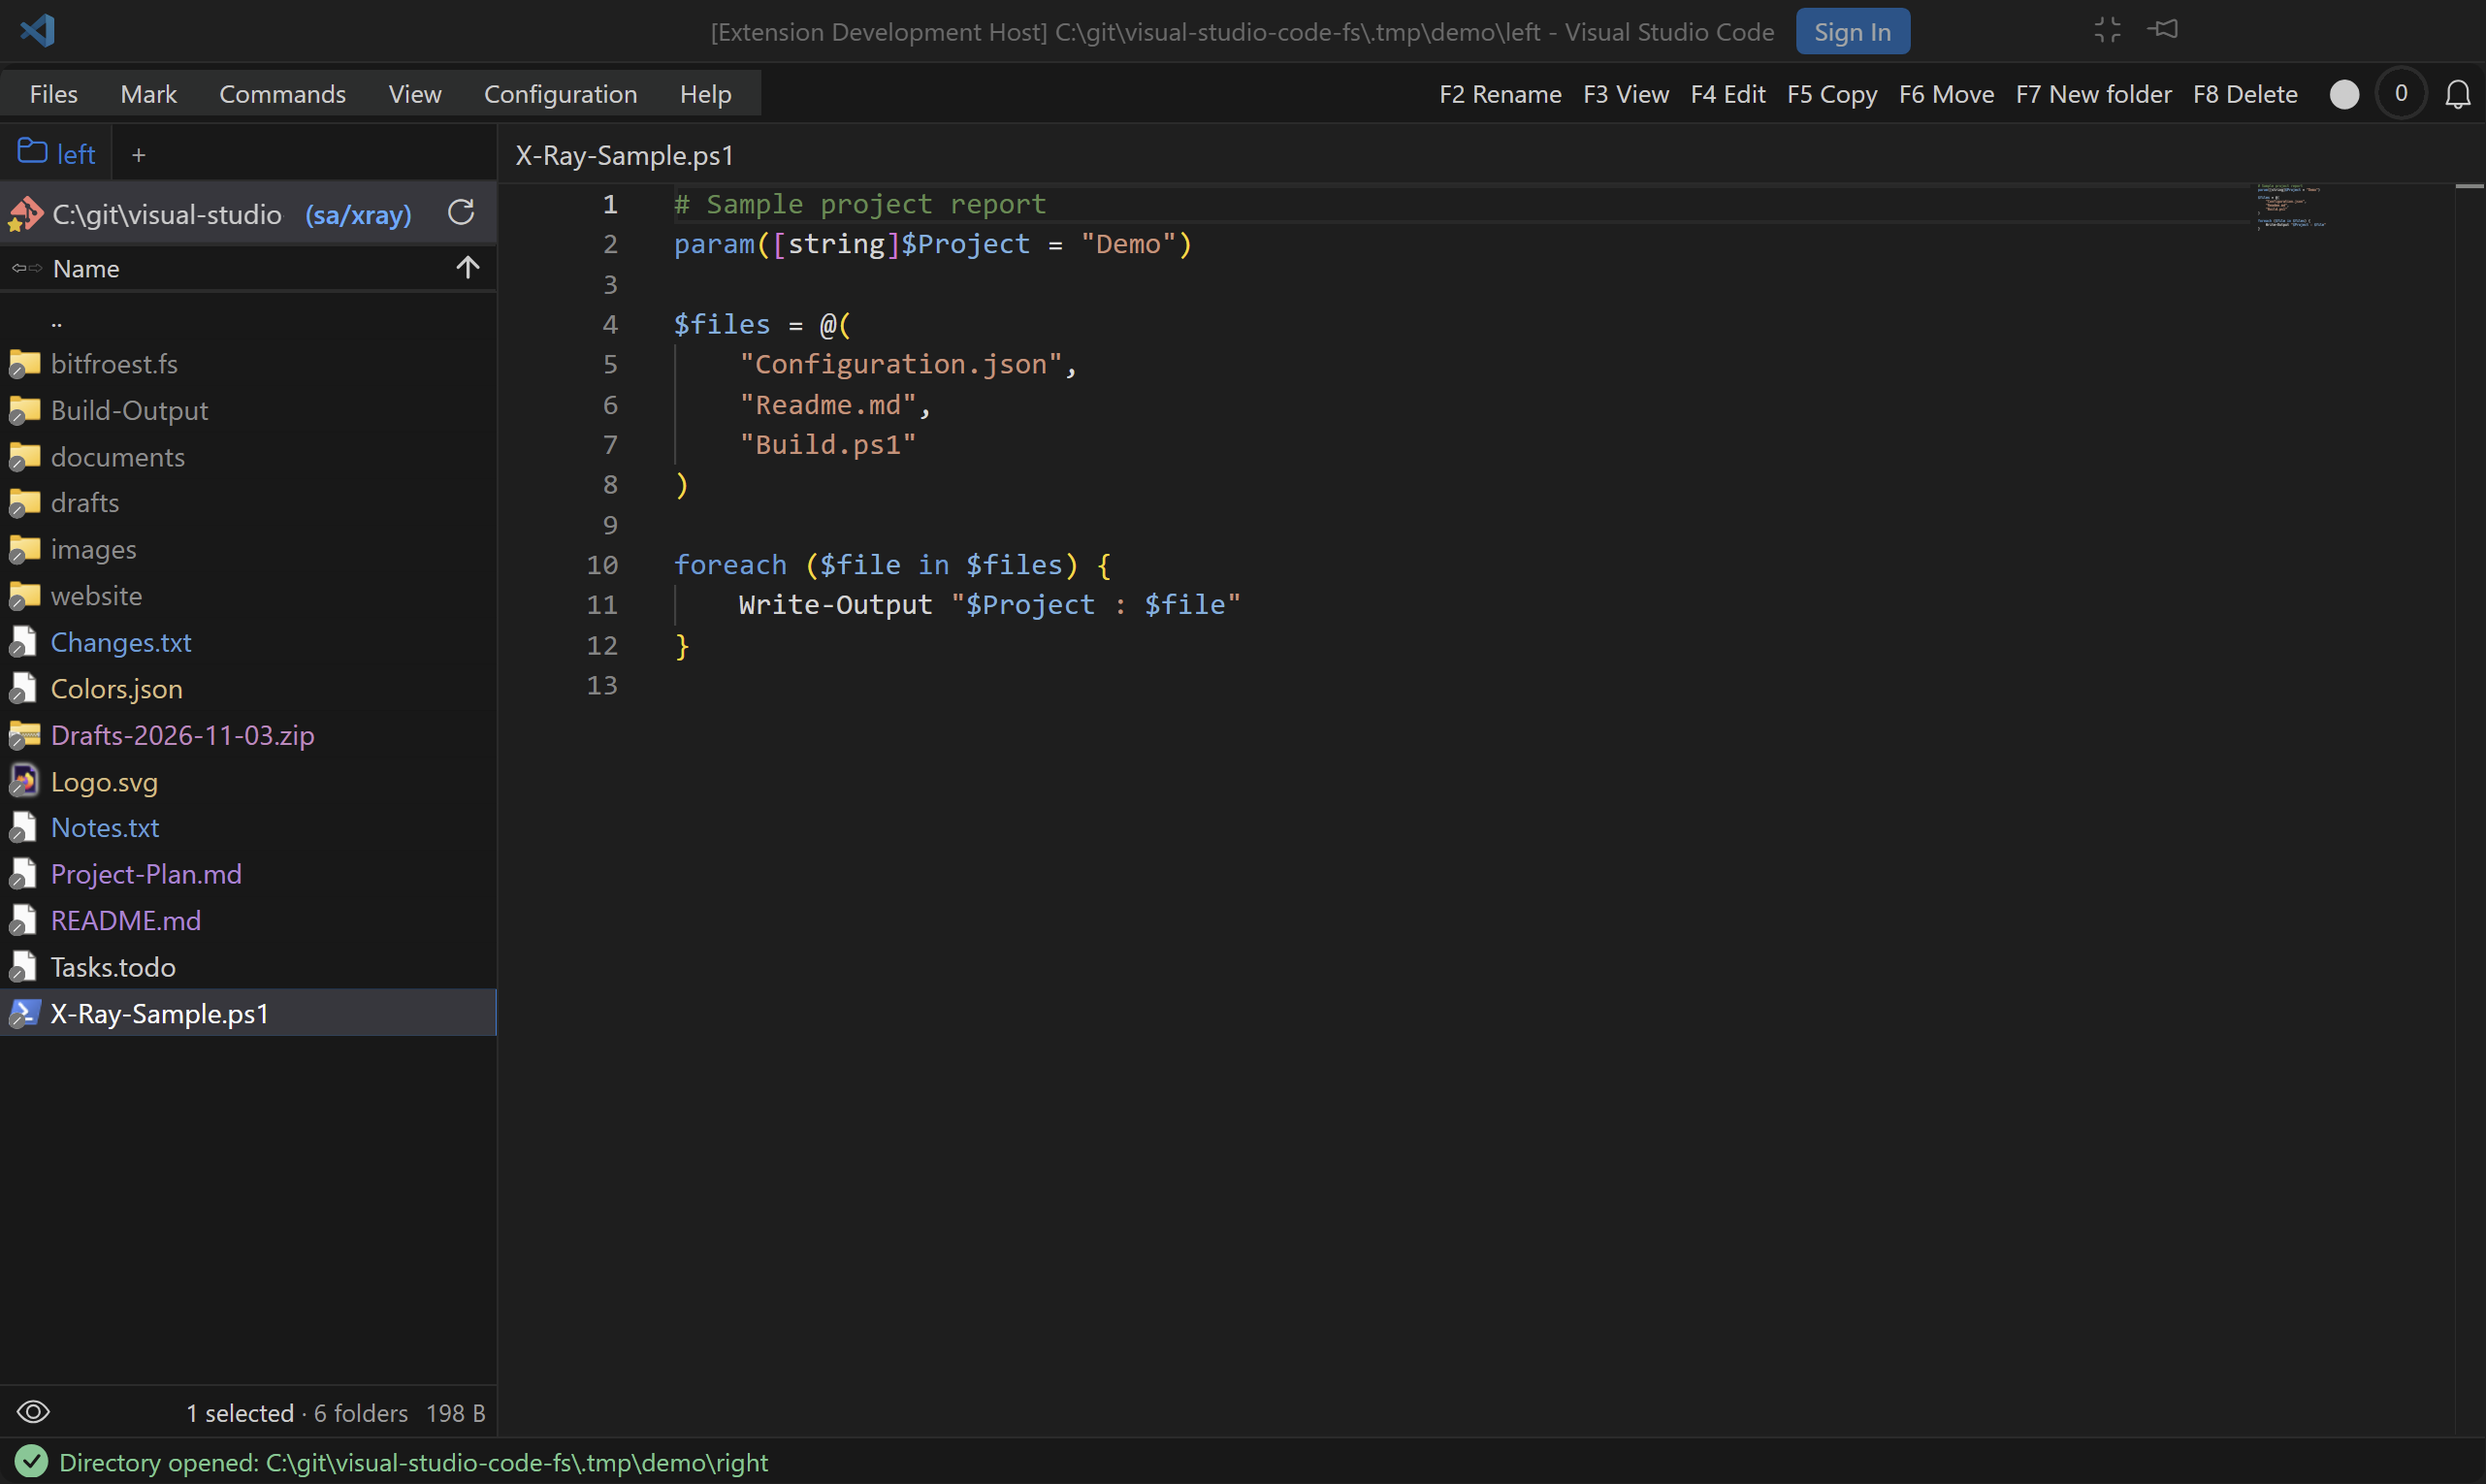
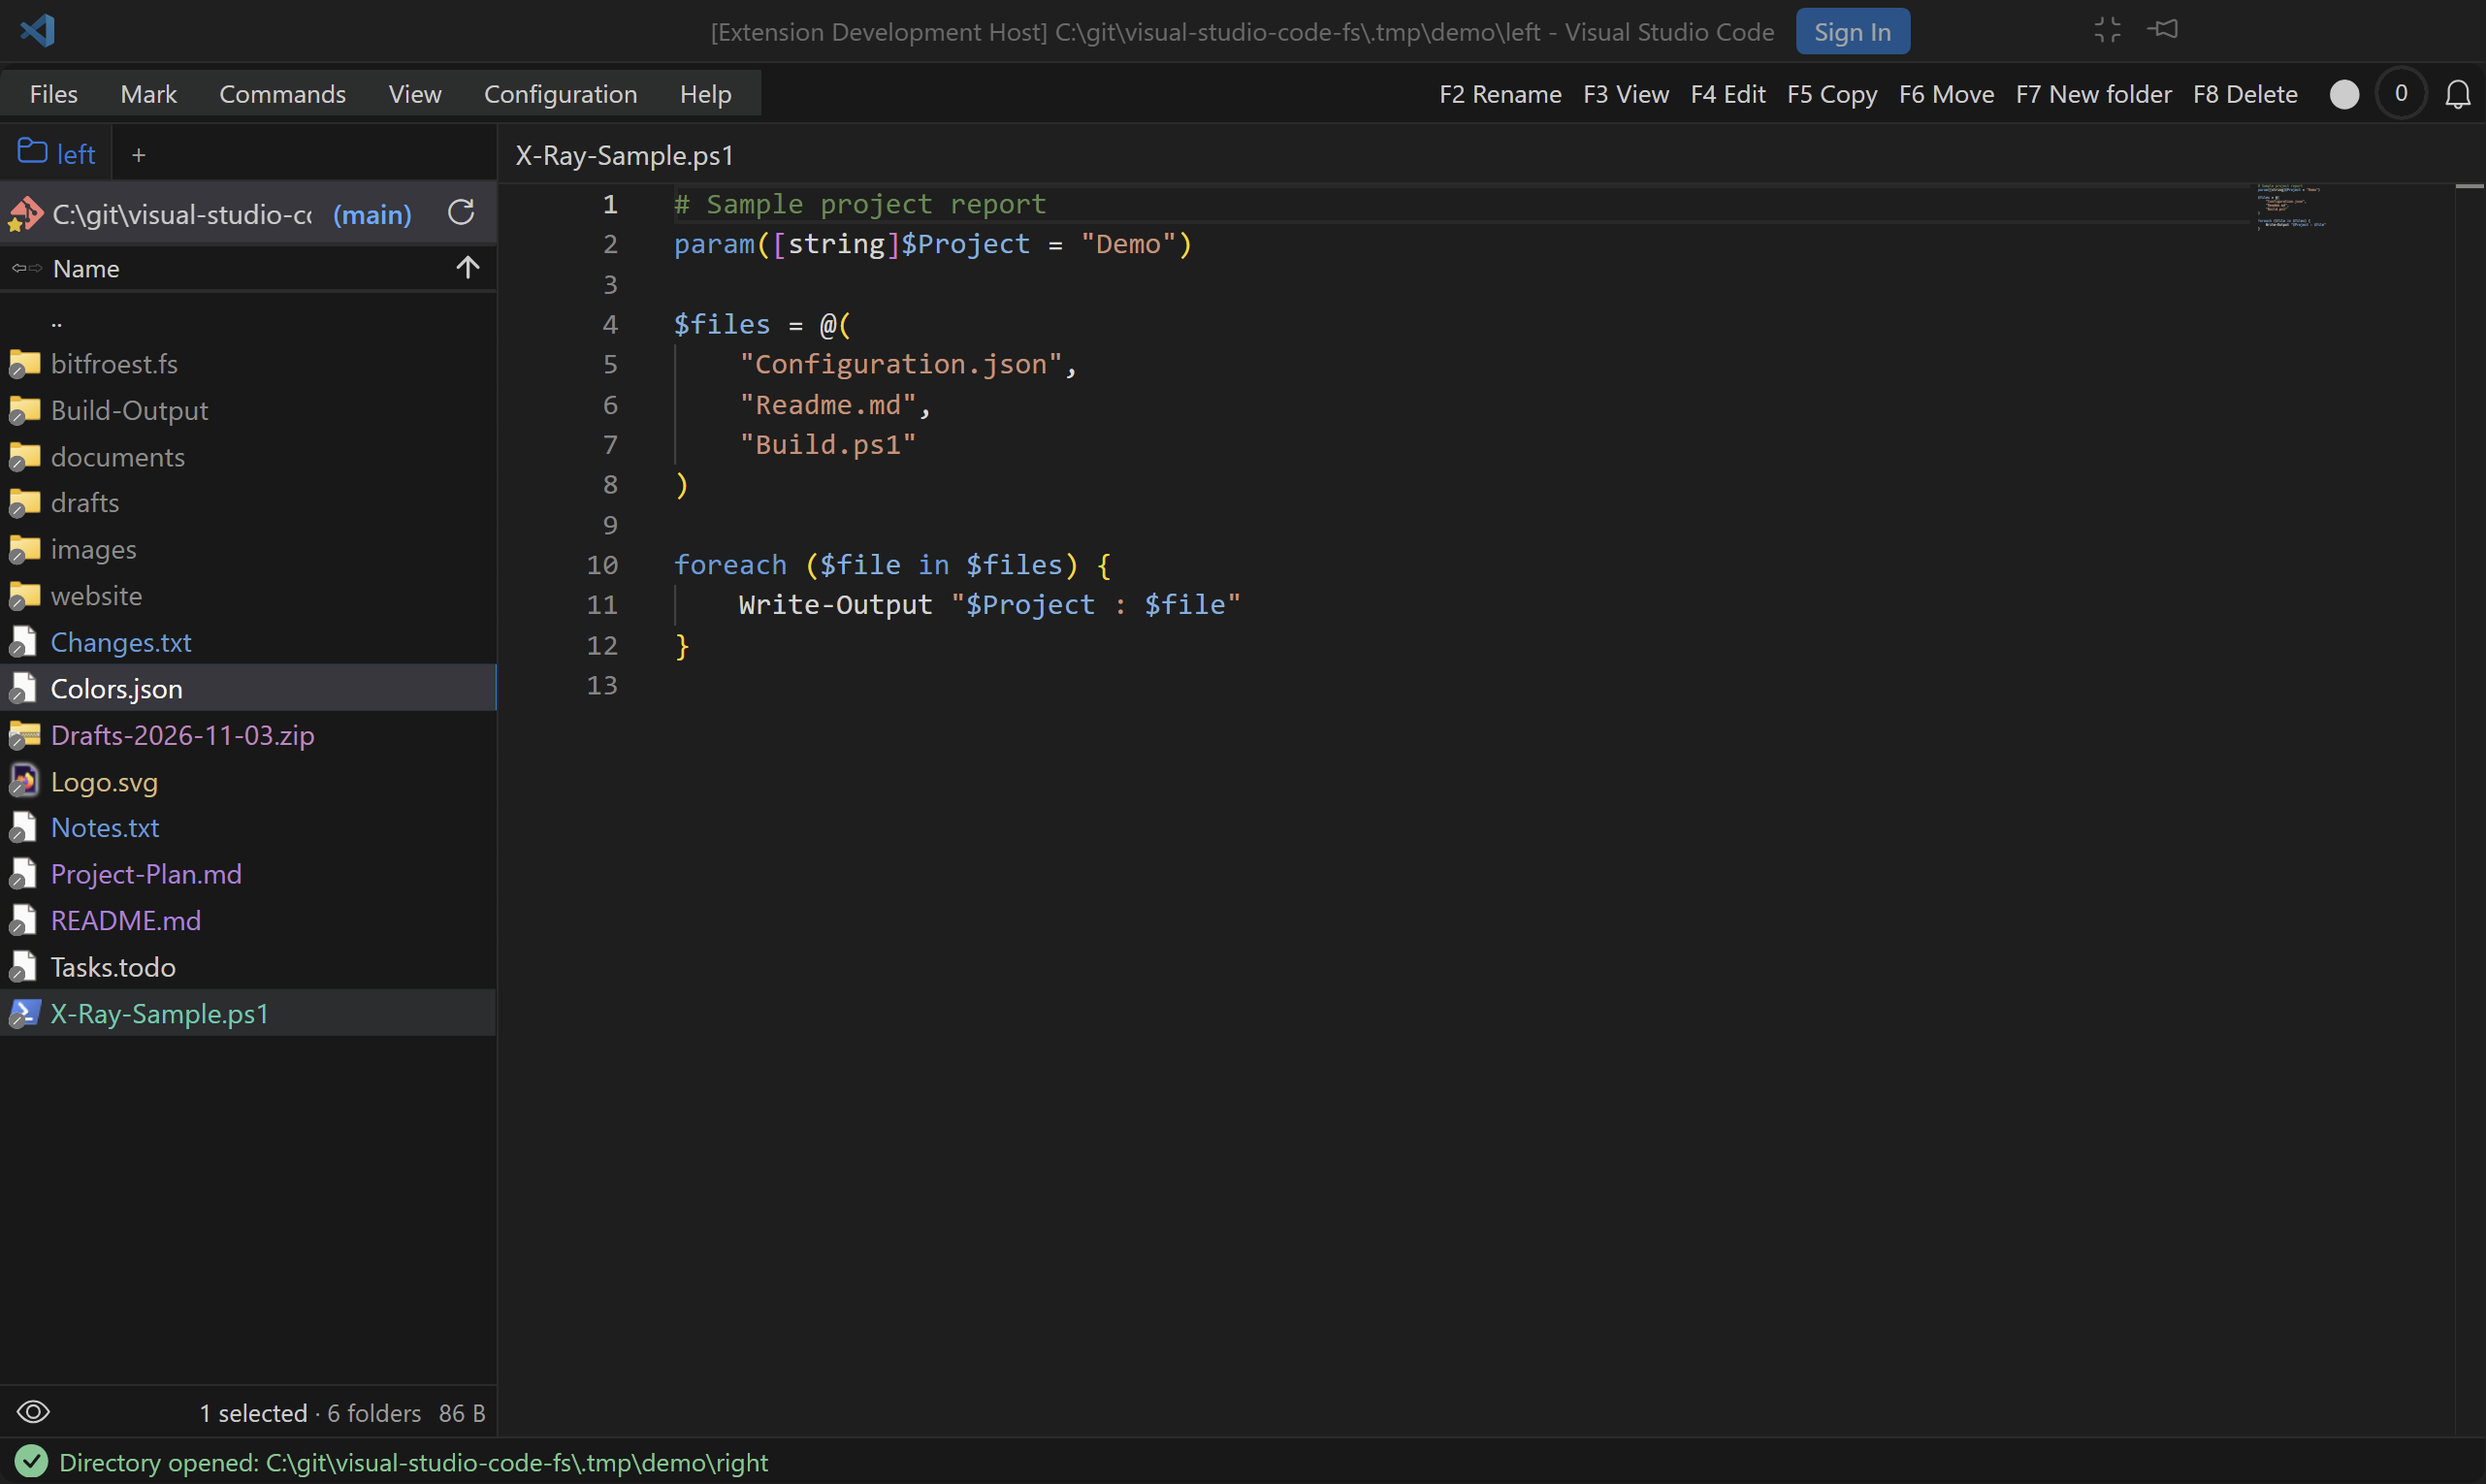
Preserve X-Ray controls across pointer focus changes

diff --git a/tests/showcases.test.js b/tests/showcases.test.js
@@ -4,6 +4,29 @@ const { validateCatalog, filename, assertProductState, waitFor, buildManifest, p
 
 const scene = () => ({ id: 'new-folder', title: 'Create a folder', description: 'Open the folder dialog.', paths: ['C:/demo/left', 'C:/demo/right'], captures: [{ id: 'dialog', action: 'mkdir', expect: 'dialog[open]', text: 'New folder' }] });
 
+test('X-Ray captures require switching away from the file selected before activation', () => {
+  const scenes = require('../scripts/showcases/catalog.json').filter(scene => ['xray-click', 'xray-hover'].includes(scene.id));
+  assert.equal(scenes.length, 2);
+  for (const scene of scenes) for (const capture of scene.captures) {
+    assert.ok(capture.xrayFile);
+    assert.notEqual(capture.xrayFile, capture.select.name);
+    assert.equal(capture.text, capture.xrayFile);
+  }
+});
+
+test('capture clicks include the focus transition between pressing and releasing', () => {
+  const { JSDOM } = require('jsdom');
+  const { clickControl } = require('../scripts/showcases/run.cjs');
+  const dom = new JSDOM('<button id="eye" type="button">Eye</button>');
+  try {
+    const button = dom.window.document.querySelector('button'), events = [];
+    button.getBoundingClientRect = () => ({ width: 20 });
+    for (const type of ['mousedown', 'focus', 'mouseup', 'click']) button.addEventListener(type, () => events.push(type));
+    clickControl('#eye', dom.window.document);
+    assert.deepEqual(events, ['mousedown', 'focus', 'mouseup', 'click']);
+  } finally { dom.window.close(); }
+});
+
 test('each gesture pointer is already centered when its first visible element is appended', () => {
   const { JSDOM } = require('jsdom');
   const { installPointer } = require('../scripts/showcases/gestures.cjs');
@@ -230,14 +253,19 @@ test('catalog additions renumber existing media without changing recorded proven
 
 test('capture clicks allow standalone buttons but reject submitting a real form', () => {
   const { clickControl } = require('../scripts/showcases/run.cjs');
-  let clicked = 0;
-  const button = { getBoundingClientRect: () => ({ width: 24 }), disabled: false, type: 'submit', form: null, click: () => clicked++ };
-  const root = { querySelector: () => button };
-  clickControl('button', root);
-  assert.equal(clicked, 1);
-  button.form = {};
-  assert.throws(() => clickControl('button', root), /unavailable/);
-  assert.equal(clicked, 1);
+  const { JSDOM } = require('jsdom');
+  const dom = new JSDOM('<button id="standalone">Click</button><form><button id="submit">Submit</button></form>');
+  try {
+    let clicked = 0;
+    for (const button of dom.window.document.querySelectorAll('button')) {
+      button.getBoundingClientRect = () => ({ width: 24 });
+      button.addEventListener('click', () => clicked++);
+    }
+    clickControl('#standalone', dom.window.document);
+    assert.equal(clicked, 1);
+    assert.throws(() => clickControl('#submit', dom.window.document), /unavailable/);
+    assert.equal(clicked, 1);
+  } finally { dom.window.close(); }
 });
 
 test('publishing renumbered media removes previous gallery references and preserves unrelated files', () => {

diff --git a/media/app.js b/media/app.js
@@ -1841,8 +1841,11 @@
       <div class="pane-status">${footerMarkup(p)}</div></section>`;
   }
   function footerMarkup(p) {
+    return `<div class="pane-controls" data-vscode-context='{"preventDefaultContextMenuItems":true}'><button type="button" data-xray-toggle data-mode="off" aria-label="X-Ray" title="X-Ray">${window.CommanderIcons.svg('xray', 'eye-slash-fill')}</button></div><div class="pane-metrics">${footerMetrics(p)}</div>`;
+  }
+  function footerMetrics(p) {
     const marked = selectedFor(p);
-    return ui`<div class="pane-controls" data-vscode-context='{"preventDefaultContextMenuItems":true}'><button type="button" data-xray-toggle data-mode="off" aria-label="X-Ray" title="X-Ray">${window.CommanderIcons.svg('xray', 'eye-slash-fill')}</button></div><div class="pane-metrics"><span><strong>${marked.length ? ui`${marked.length} markiert` : count('file', files(p).filter(f => f.type !== 'folder').length)}</strong>${searchSummary(p)} · ${count('folder', files(p).filter(f => f.type === 'folder').length)}</span><span>${size((marked.length ? marked : files(p)).reduce((sum, f) => sum + displayBytes(f, p), 0))}</span></div>`;
+    return ui`<span><strong>${marked.length ? ui`${marked.length} markiert` : count('file', files(p).filter(f => f.type !== 'folder').length)}</strong>${searchSummary(p)} · ${count('folder', files(p).filter(f => f.type === 'folder').length)}</span><span>${size((marked.length ? marked : files(p)).reduce((sum, f) => sum + displayBytes(f, p), 0))}</span>`;
   }
   function searchSummary(p) {
     if (!p.searchFilter) return '';
@@ -1892,7 +1895,7 @@
         row.classList.toggle('focused', p.cursor === id);
         row.setAttribute('aria-selected', String(selectedIds.has(id)));
       });
-      section.querySelector('.pane-status').innerHTML = footerMarkup(p);
+      section.querySelector('.pane-metrics').innerHTML = footerMetrics(p);
     });
     lister.updateMenu();
     xray.sync();

diff --git a/tests/webview-xray.test.js b/tests/webview-xray.test.js
@@ -38,6 +38,21 @@ test('the X-Ray command uses the same mode control as the footer', t => {
   assert.ok(app.document.querySelector('[data-xray]'));
 });
 
+test('a pointer click survives the focus change before mouseup on the eye button', t => {
+  const app = createApp(t);
+  app.document.querySelector('[data-pane="1"] .list').focus();
+  const button = app.document.querySelector('[data-pane="0"] [data-xray-toggle]');
+  const icon = button.querySelector('svg');
+  icon.dispatchEvent(new app.window.MouseEvent('mousedown', { bubbles: true, button: 0, buttons: 1 }));
+  button.focus();
+  assert.equal(button.isConnected, true, 'focus must not replace the pressed control');
+  assert.equal(app.document.activeElement, button);
+  icon.dispatchEvent(new app.window.MouseEvent('mouseup', { bubbles: true, button: 0 }));
+  app.click(icon);
+  assert.equal(button.dataset.mode, 'click');
+  assert.ok(app.document.querySelector('[data-pane="1"] [data-xray]'));
+});
+
 test('enabling X-Ray closes an existing F3 view before replacing the opposite pane', t => {
   const app = createApp(t);
   app.click(app.row('README.md')); app.key('F3');

diff --git a/media/commander-xray.js b/media/commander-xray.js
@@ -24,8 +24,8 @@
       for (const side of [0, 1]) compact(side, side === source);
       document.querySelectorAll('[data-xray-toggle]').forEach(button => {
         const active = Number(button.closest('[data-pane]').dataset.pane) === source ? mode : 'off';
+        if (button.dataset.mode !== active) button.innerHTML = root.CommanderIcons.svg('xray', icons[active]);
         button.dataset.mode = active; button.title = t(labels[active]); button.setAttribute('aria-label', t(labels[active])); button.setAttribute('aria-pressed', String(active !== 'off'));
-        button.innerHTML = root.CommanderIcons.svg('xray', icons[active]);
       });
       if (source === null) return;
       const section = container.querySelector(`[data-pane="${1 - source}"]`);

diff --git a/.github/release-notes/0.0.51.md b/.github/release-notes/0.0.51.md
@@ -16,6 +16,7 @@ Changes since version [0.0.50](https://github.com/s-a/Bitfroest.fs/releases/tag/
 
 ## Fixed
 
+- X-Ray can be activated with a mouse click after switching focus between panes.
 - Right-clicking a pane footer no longer opens a file context menu.
 
 ## Known limitations
